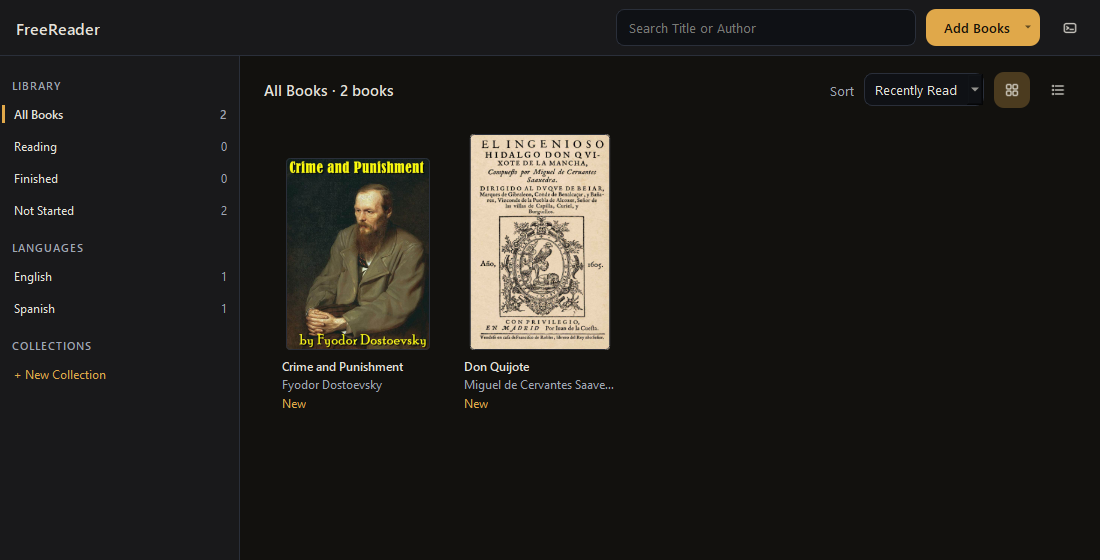
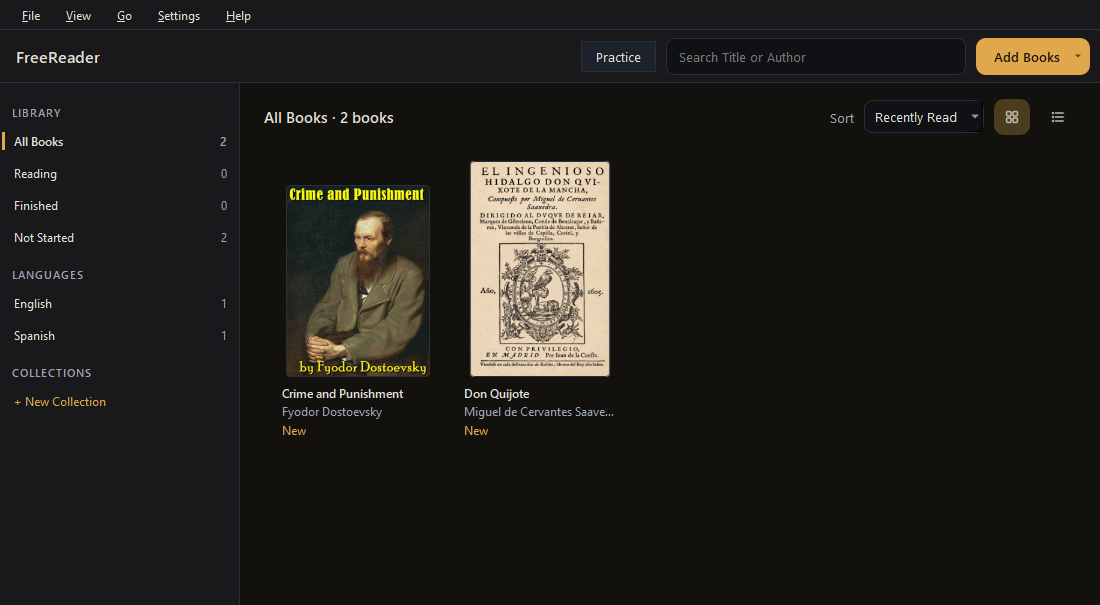
README: translation and practice, menus; new pictures. --check-translation looks up one word with the saved key; screenshot mode shows no Back chip

diff --git a/src/app/main.cpp b/src/app/main.cpp
@@ -10,6 +10,14 @@
 #include "core/format/FormatPlugin.h"
 #include "core/services/BookEngine.h"
 #include "core/services/Library.h"
+#include "core/services/Secrets.h"
+#include "core/translate/AiProviders.h"
+
+#include <QFile>
+#include <QJsonDocument>
+#include <QNetworkAccessManager>
+#include <QSslSocket>
+#include <QTextStream>
 
 #include <QApplication>
 #include <QCommandLineParser>
@@ -52,6 +60,41 @@ static bool waitFor(const std::function<bool()>& ready, int timeoutMs)
         QCoreApplication::processEvents(QEventLoop::AllEvents, 20);
     }
     return true;
+}
+
+// --check-translation: one real lookup through Gemini with the saved key (one of today's free lookups), the
+// answer written to a file, then exit. Shows nothing; for checking a build can reach Gemini.
+static int checkTranslation(const QString& out)
+{
+    QFile f(out);
+    if (!f.open(QIODevice::WriteOnly | QIODevice::Text)) {
+        fprintf(stderr, "Can't write %s\n", qPrintable(out));
+        return 2;
+    }
+    QTextStream ts(&f);
+    ts.setEncoding(QStringConverter::Utf8);
+    ts << "TLS backends: " << QSslSocket::availableBackends().join(QStringLiteral(", ")) << " (active: " << QSslSocket::activeBackend() << ")\n";
+    QNetworkAccessManager net;
+    core::GeminiProvider gemini(&net);
+    gemini.setKey(core::secrets::read(QStringLiteral("gemini-api-key")));
+    ts << "Gemini key saved: " << (gemini.hasKey() ? "yes" : "no") << ", model " << gemini.model() << "\n";
+    if (!gemini.hasKey()) return 3;
+    core::TranslationRequest r;
+    r.text = QStringLiteral("biblioteca");
+    r.sentence = QStringLiteral("Pasó la tarde en la biblioteca.");
+    r.from = QStringLiteral("es");
+    int code = 4;
+    QElapsedTimer t;
+    t.start();
+    gemini.translate(r, [&](const core::TranslationResult& res, core::TranslationFailure fail, const QString& detail) {
+        ts << "Answer in " << t.elapsed() << " ms: " << (fail == core::TranslationFailure::None ? QStringLiteral("ok") : core::failureText(fail) + QStringLiteral(" ") + detail) << "\n";
+        ts << QString::fromUtf8(QJsonDocument(res.toJson()).toJson(QJsonDocument::Indented)) << "\n";
+        code = fail == core::TranslationFailure::None ? 0 : 5;
+        QCoreApplication::quit();
+    });
+    QTimer::singleShot(40000, qApp, [] { QCoreApplication::exit(6); });
+    const int loop = QCoreApplication::exec();
+    return loop == 6 ? 6 : code;
 }
 
 // --screenshot: renders the window off-screen to a PNG and exits. Never shows a dialog or a window: problems are
@@ -119,6 +162,7 @@ static int screenshot(QCommandLineParser& cli, const QString& out)
                 return 2;
             }
             waitFor([&] { return w.isSettled(); }, 30000);
+            w.reader()->forgetHistory();
         }
         for (int i = 0; i < cli.value(QStringLiteral("turn")).toInt(); ++i) {
             w.reader()->pages()->nextScreen();
@@ -178,8 +222,10 @@ int main(int argc, char* argv[])
     cli.addOption({QStringLiteral("list-view"), QStringLiteral("With --screenshot: show the library as a list.")});
     cli.addOption({QStringLiteral("appearance"), QStringLiteral("With --screenshot: show the text and layout panel.")});
     cli.addOption({QStringLiteral("font"), QStringLiteral("With --screenshot: use this font for the text."), QStringLiteral("family")});
+    cli.addOption({QStringLiteral("check-translation"), QStringLiteral("Look up one word with Gemini (the saved key), write the answer to this file and exit."), QStringLiteral("file")});
     cli.process(app);
 
+    if (cli.isSet(QStringLiteral("check-translation"))) return checkTranslation(cli.value(QStringLiteral("check-translation")));
     if (cli.isSet(QStringLiteral("screenshot"))) return screenshot(cli, cli.value(QStringLiteral("screenshot")));
 
     if (appdata::resolve(cli.value(QStringLiteral("data-folder")), nullptr).isEmpty()) return 0;

diff --git a/src/app/ReaderView.h b/src/app/ReaderView.h
@@ -67,6 +67,7 @@ public:
     void jumpTo(const core::Position& p);   // remembers where it came from (Back)
     bool canGoBack() const { return !m_history.empty(); }
     void goBack();
+    void forgetHistory();   // no Back (the screenshot mode's own jumps aren't the reader's)
     void nextChapter();
     void previousChapter();
     QString goToPageOrPercent(const QString& text);   // empty on success, else a message for the user

diff --git a/src/app/ReaderView.cpp b/src/app/ReaderView.cpp
@@ -504,6 +504,12 @@ void ReaderView::jumpTo(const core::Position& p)
     placeBackChip();
 }
 
+void ReaderView::forgetHistory()
+{
+    m_history.clear();
+    placeBackChip();
+}
+
 void ReaderView::goBack()
 {
     if (m_history.empty()) return;

diff --git a/README.md b/README.md
@@ -1,13 +1,13 @@
 # FreeReader
 
-An e-book reader for DRM-free EPUB books, for Windows (tested) and Linux (experimental). It is being built to
-make reading in another language easy: translations of selected words and passages are coming in a later
-version.
+An e-book reader for DRM-free EPUB books, for Windows (tested) and Linux (experimental), built to make reading in
+another language easy: select a word or a passage and its English meaning appears next to it. Every word you look
+up is saved, ready to practise as flashcards.
 
 ![FreeReader showing Don Quijote with the contents panel open](.github/screenshot.png)
 
-**Status:** early development (phase 2 of 7). The library, reading, themes and text settings work. Translation,
-highlights and the word log come next.
+**Status:** early development (phase 3 of 7). The library, reading, themes, text settings, translation, the word
+log and flashcard practice work. Highlights, notes and search come next.
 
 ## Download
 
@@ -31,6 +31,35 @@ Get the latest version from the [Releases](https://github.com/cincottash/FreeRea
 
 <br clear="right">
 
+## Translation
+
+![The translation pop-up next to a selected word](.github/readme/translation.png)
+
+- **Select a word or a passage** (drag, or double-click a word) and a pop-up shows what it means in that sentence,
+  other meanings, its dictionary form ("tenía" → tener), a definition in Spanish and the whole sentence in
+  English. **Copy** and **Hear Pronunciation** are in the pop-up.
+- **Right-click** a word (it's selected for you) or a selection: Translate, Look Up in Dictionary, Copy, Search
+  the Web, Search Wikipedia.
+- Answers come from **Google's Gemini** (free tier, no card needed), then **LM Studio** on your own computer when
+  Gemini can't answer, then an **offline dictionary**. Every answer is kept, so looking up the same word again
+  costs nothing.
+- **Set it up once:** get a free key at [aistudio.google.com/apikey](https://aistudio.google.com/apikey), then
+  paste it in **Settings ▸ Translation Settings…**. The key is kept in Windows Credential Manager (or the
+  system's key store on Linux), never in a file. **Test** looks up one word to check it works.
+- **Offline Only** (for all books, or one book from the View menu) never sends text over the internet.
+
+## Practice
+
+![A flashcard with its answer shown](.github/readme/practice.png)
+
+- **Practice Words** (Ctrl+P, or the Practice button in the library) turns the words you looked up into
+  flashcards, scheduled with FSRS (the spaced-repetition method Anki uses): each card comes back just before you
+  would forget it.
+- Choose the directions: Spanish → English, English → Spanish, Definition → Word, or the book's sentence with a
+  gap. Flip the card, or type the answer (missing accents are accepted but pointed out).
+- **Word List:** every word with its meaning, book and page. Search, change a meaning, star, **Show in Book**,
+  and **Export…** a file Anki can import.
+
 ## Reading
 
 - **Turn pages:** arrow keys, Page Up and Page Down, Space, the mouse wheel, or the arrows at the edges of the page.
@@ -38,7 +67,7 @@ Get the latest version from the [Releases](https://github.com/cincottash/FreeRea
 - **Go to a page or point:** Ctrl+G, then a page number or a percentage such as `45%`. Click the progress bar
   to jump there. **Back to Page …** (or Alt+Left) returns to where you were.
 - **Footnotes** open in a small pop-up next to the reference. **Pictures** open full size when clicked.
-- **Commands:** Ctrl+K lists everything FreeReader can do. There is no menu bar.
+- **Menus:** File, View, Go, Settings and Help at the top left. Ctrl+K lists every command with a search box.
 
 Page numbers stay the same whatever the text size or the window: one page is 1,800 characters of the book, or
 the publisher's own page numbers when the book has them.
@@ -77,6 +106,8 @@ Every shortcut can be changed in **Settings** (Ctrl+,).
 | Text and Layout… | Ctrl+Shift+A |
 | Choose Theme… | Ctrl+Shift+T |
 | Go to Page or Percent… | Ctrl+G |
+| Translate Selection | Ctrl+E |
+| Practice Words | Ctrl+P |
 | Back | Alt+Left, Backspace |
 | Next Chapter / Previous Chapter | Ctrl+Page Down / Ctrl+Page Up |
 | Go to Beginning of Book | Ctrl+Home |
@@ -105,19 +136,22 @@ FreeReader [book.epub] [--data-folder FOLDER]
 FreeReader [book.epub] --screenshot out.png [--page N | --percent P] [--turn N] [--size WxH]
            [--columns one|two|auto] [--text-size PERCENT] [--font FAMILY] [--theme KEY]
            [--contents] [--palette] [--appearance] [--theme-list] [--add-books FOLDER] [--list-view]
+FreeReader --check-translation result.txt
 ```
 
 `--data-folder` uses that folder for this run only. `--screenshot` draws the window off-screen to a picture and
-exits; it never shows a window or a dialog, and it uses a throwaway library.
+exits; it never shows a window or a dialog, and it uses a throwaway library. `--check-translation` looks up one
+word with Gemini and the saved key (one of the day's free lookups), writes the answer to the file and exits.
 
 </details>
 
 <details>
 <summary>Building from source</summary>
 
-C++20, Qt 6 (Widgets, Svg, Sql, Concurrent) and zlib, built with CMake.
+C++20, Qt 6 (Widgets, Svg, Sql, Concurrent, Network; TextToSpeech when available) and zlib, built with CMake.
 
-- **Windows:** MSYS2 UCRT64 with `mingw-w64-ucrt-x86_64-{gcc,cmake,ninja,qt6-base,qt6-svg}`. For the single-file
+- **Windows:** MSYS2 UCRT64 with `mingw-w64-ucrt-x86_64-{gcc,cmake,ninja,qt6-base,qt6-svg}` (add `qt6-speech` for
+  pronunciation). For the single-file
   exe, add `qt6-static` and configure with `-DSTATIC_BUILD=ON -DCMAKE_PREFIX_PATH=<msys2>/ucrt64/qt6-static`.
 - **Linux:** Qt 6.5 or newer, zlib, CMake and Ninja.
 
@@ -138,7 +172,11 @@ cmake --build build
   tables with stable character positions, laid out into pages on background threads (with hyphenation by
   Liang's algorithm) and drawn with QPainter. No browser engine is used.
 - `src/core/position`: positions as EPUB CFI, which keep working when the text size or window changes.
-- `src/core/services`: the book engine (opening, layout cache), the library database (SQLite) and adding books.
+- `src/core/services`: the book engine (opening, layout cache), the library database (SQLite), adding books, the
+  word log and the system key store.
+- `src/core/translate`: translation providers (Gemini, LM Studio, the offline dictionary) and the service that
+  tries them in order and caches answers.
+- `src/core/practice`: the FSRS scheduler and typed-answer checking for flashcards.
 - `src/app`: the windows.
 
 </details>
